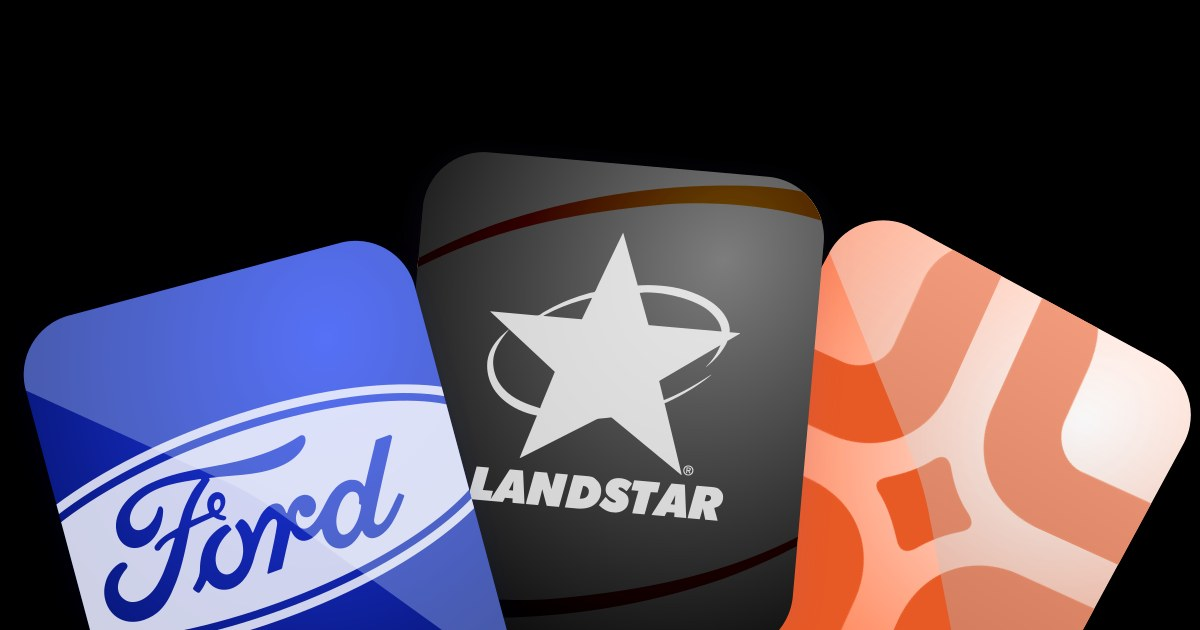
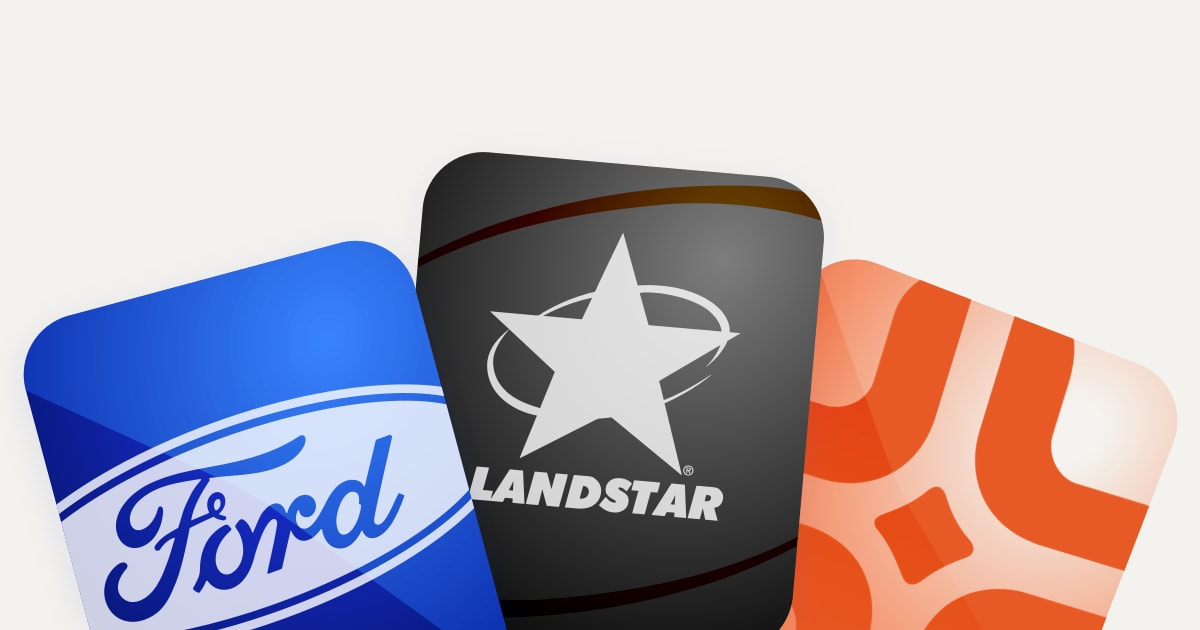
Refresh the Open Graph share image.
Replace the OG SVG/raster assets and bust social crawler caches with a new image query param.

diff --git a/index.html b/index.html
@@ -12,13 +12,13 @@
   <meta property="og:title" content="Ryan Brink - Portfolio" />
   <meta property="og:description" content="Product design portfolio of Ryan Brink — case studies in healthcare, logistics, and design systems." />
   <meta property="og:url" content="https://ryanjbrink.com/" />
-  <meta property="og:image" content="https://ryanjbrink.com/Images/og-image.jpg" />
+  <meta property="og:image" content="https://ryanjbrink.com/Images/og-image.jpg?v=2" />
   <meta property="og:image:width" content="1200" />
   <meta property="og:image:height" content="630" />
   <meta name="twitter:card" content="summary_large_image" />
   <meta name="twitter:title" content="Ryan Brink - Portfolio" />
   <meta name="twitter:description" content="Product design portfolio of Ryan Brink — case studies in healthcare, logistics, and design systems." />
-  <meta name="twitter:image" content="https://ryanjbrink.com/Images/og-image.jpg" />
+  <meta name="twitter:image" content="https://ryanjbrink.com/Images/og-image.jpg?v=2" />
   <script src="js/site-theme.js"></script>
   <link rel="stylesheet" href="styles/reset.css" />
   <link rel="stylesheet" href="styles/globals.css" />

diff --git a/current-role.html b/current-role.html
@@ -12,13 +12,13 @@
   <meta property="og:title" content="Current role — Ryan Brink" />
   <meta property="og:description" content="Staff Product Designer at HCA Healthcare — Ryan Brink’s current role." />
   <meta property="og:url" content="https://ryanjbrink.com/current-role.html" />
-  <meta property="og:image" content="https://ryanjbrink.com/Images/og-image.jpg" />
+  <meta property="og:image" content="https://ryanjbrink.com/Images/og-image.jpg?v=2" />
   <meta property="og:image:width" content="1200" />
   <meta property="og:image:height" content="630" />
   <meta name="twitter:card" content="summary_large_image" />
   <meta name="twitter:title" content="Current role — Ryan Brink" />
   <meta name="twitter:description" content="Staff Product Designer at HCA Healthcare — Ryan Brink’s current role." />
-  <meta name="twitter:image" content="https://ryanjbrink.com/Images/og-image.jpg" />
+  <meta name="twitter:image" content="https://ryanjbrink.com/Images/og-image.jpg?v=2" />
   <link rel="stylesheet" href="styles/reset.css" />
   <link rel="stylesheet" href="styles/globals.css" />
   <link rel="stylesheet" href="styles/current-role.css?v=68" />

diff --git a/landstarresearch.html b/landstarresearch.html
@@ -12,13 +12,13 @@
   <meta property="og:title" content="LandstarOne - Ryan Brink" />
   <meta property="og:description" content="LandstarOne case study — logistics research and product design by Ryan Brink." />
   <meta property="og:url" content="https://ryanjbrink.com/landstarresearch.html" />
-  <meta property="og:image" content="https://ryanjbrink.com/Images/og-image.jpg" />
+  <meta property="og:image" content="https://ryanjbrink.com/Images/og-image.jpg?v=2" />
   <meta property="og:image:width" content="1200" />
   <meta property="og:image:height" content="630" />
   <meta name="twitter:card" content="summary_large_image" />
   <meta name="twitter:title" content="LandstarOne - Ryan Brink" />
   <meta name="twitter:description" content="LandstarOne case study — logistics research and product design by Ryan Brink." />
-  <meta name="twitter:image" content="https://ryanjbrink.com/Images/og-image.jpg" />
+  <meta name="twitter:image" content="https://ryanjbrink.com/Images/og-image.jpg?v=2" />
   <script src="js/site-theme.js"></script>
   <link rel="stylesheet" href="styles/reset.css" />
   <link rel="stylesheet" href="styles/globals.css" />

diff --git a/simplevariables.html b/simplevariables.html
@@ -12,13 +12,13 @@
   <meta property="og:title" content="Variables - Ryan Brink" />
   <meta property="og:description" content="Simple Variables case study — design systems work by Ryan Brink." />
   <meta property="og:url" content="https://ryanjbrink.com/simplevariables.html" />
-  <meta property="og:image" content="https://ryanjbrink.com/Images/og-image.jpg" />
+  <meta property="og:image" content="https://ryanjbrink.com/Images/og-image.jpg?v=2" />
   <meta property="og:image:width" content="1200" />
   <meta property="og:image:height" content="630" />
   <meta name="twitter:card" content="summary_large_image" />
   <meta name="twitter:title" content="Variables - Ryan Brink" />
   <meta name="twitter:description" content="Simple Variables case study — design systems work by Ryan Brink." />
-  <meta name="twitter:image" content="https://ryanjbrink.com/Images/og-image.jpg" />
+  <meta name="twitter:image" content="https://ryanjbrink.com/Images/og-image.jpg?v=2" />
   <script src="js/site-theme.js"></script>
   <link rel="stylesheet" href="styles/reset.css" />
   <link rel="stylesheet" href="styles/globals.css" />

diff --git a/fordscan.html b/fordscan.html
@@ -12,13 +12,13 @@
   <meta property="og:title" content="Ford - Ryan Brink" />
   <meta property="og:description" content="FordScan case study — warehouse scanning product design by Ryan Brink." />
   <meta property="og:url" content="https://ryanjbrink.com/fordscan.html" />
-  <meta property="og:image" content="https://ryanjbrink.com/Images/og-image.jpg" />
+  <meta property="og:image" content="https://ryanjbrink.com/Images/og-image.jpg?v=2" />
   <meta property="og:image:width" content="1200" />
   <meta property="og:image:height" content="630" />
   <meta name="twitter:card" content="summary_large_image" />
   <meta name="twitter:title" content="Ford - Ryan Brink" />
   <meta name="twitter:description" content="FordScan case study — warehouse scanning product design by Ryan Brink." />
-  <meta name="twitter:image" content="https://ryanjbrink.com/Images/og-image.jpg" />
+  <meta name="twitter:image" content="https://ryanjbrink.com/Images/og-image.jpg?v=2" />
   <script src="js/site-theme.js"></script>
   <link rel="stylesheet" href="styles/reset.css" />
   <link rel="stylesheet" href="styles/globals.css" />

diff --git a/solaire.html b/solaire.html
@@ -12,13 +12,13 @@
   <meta property="og:title" content="Solaire Medical - Ryan Brink" />
   <meta property="og:description" content="Solaire Medical case study — product design by Ryan Brink." />
   <meta property="og:url" content="https://ryanjbrink.com/solaire.html" />
-  <meta property="og:image" content="https://ryanjbrink.com/Images/og-image.jpg" />
+  <meta property="og:image" content="https://ryanjbrink.com/Images/og-image.jpg?v=2" />
   <meta property="og:image:width" content="1200" />
   <meta property="og:image:height" content="630" />
   <meta name="twitter:card" content="summary_large_image" />
   <meta name="twitter:title" content="Solaire Medical - Ryan Brink" />
   <meta name="twitter:description" content="Solaire Medical case study — product design by Ryan Brink." />
-  <meta name="twitter:image" content="https://ryanjbrink.com/Images/og-image.jpg" />
+  <meta name="twitter:image" content="https://ryanjbrink.com/Images/og-image.jpg?v=2" />
   <script src="js/site-theme.js"></script>
   <link rel="stylesheet" href="styles/reset.css" />
   <link rel="stylesheet" href="styles/globals.css" />

diff --git a/phoney.html b/phoney.html
@@ -12,13 +12,13 @@
   <meta property="og:title" content="Phoney - Ryan Brink" />
   <meta property="og:description" content="Phoney case study — design fraud research by Ryan Brink." />
   <meta property="og:url" content="https://ryanjbrink.com/phoney.html" />
-  <meta property="og:image" content="https://ryanjbrink.com/Images/og-image.jpg" />
+  <meta property="og:image" content="https://ryanjbrink.com/Images/og-image.jpg?v=2" />
   <meta property="og:image:width" content="1200" />
   <meta property="og:image:height" content="630" />
   <meta name="twitter:card" content="summary_large_image" />
   <meta name="twitter:title" content="Phoney - Ryan Brink" />
   <meta name="twitter:description" content="Phoney case study — design fraud research by Ryan Brink." />
-  <meta name="twitter:image" content="https://ryanjbrink.com/Images/og-image.jpg" />
+  <meta name="twitter:image" content="https://ryanjbrink.com/Images/og-image.jpg?v=2" />
   <script src="js/site-theme.js"></script>
   <link rel="stylesheet" href="styles/reset.css" />
   <link rel="stylesheet" href="styles/globals.css" />
